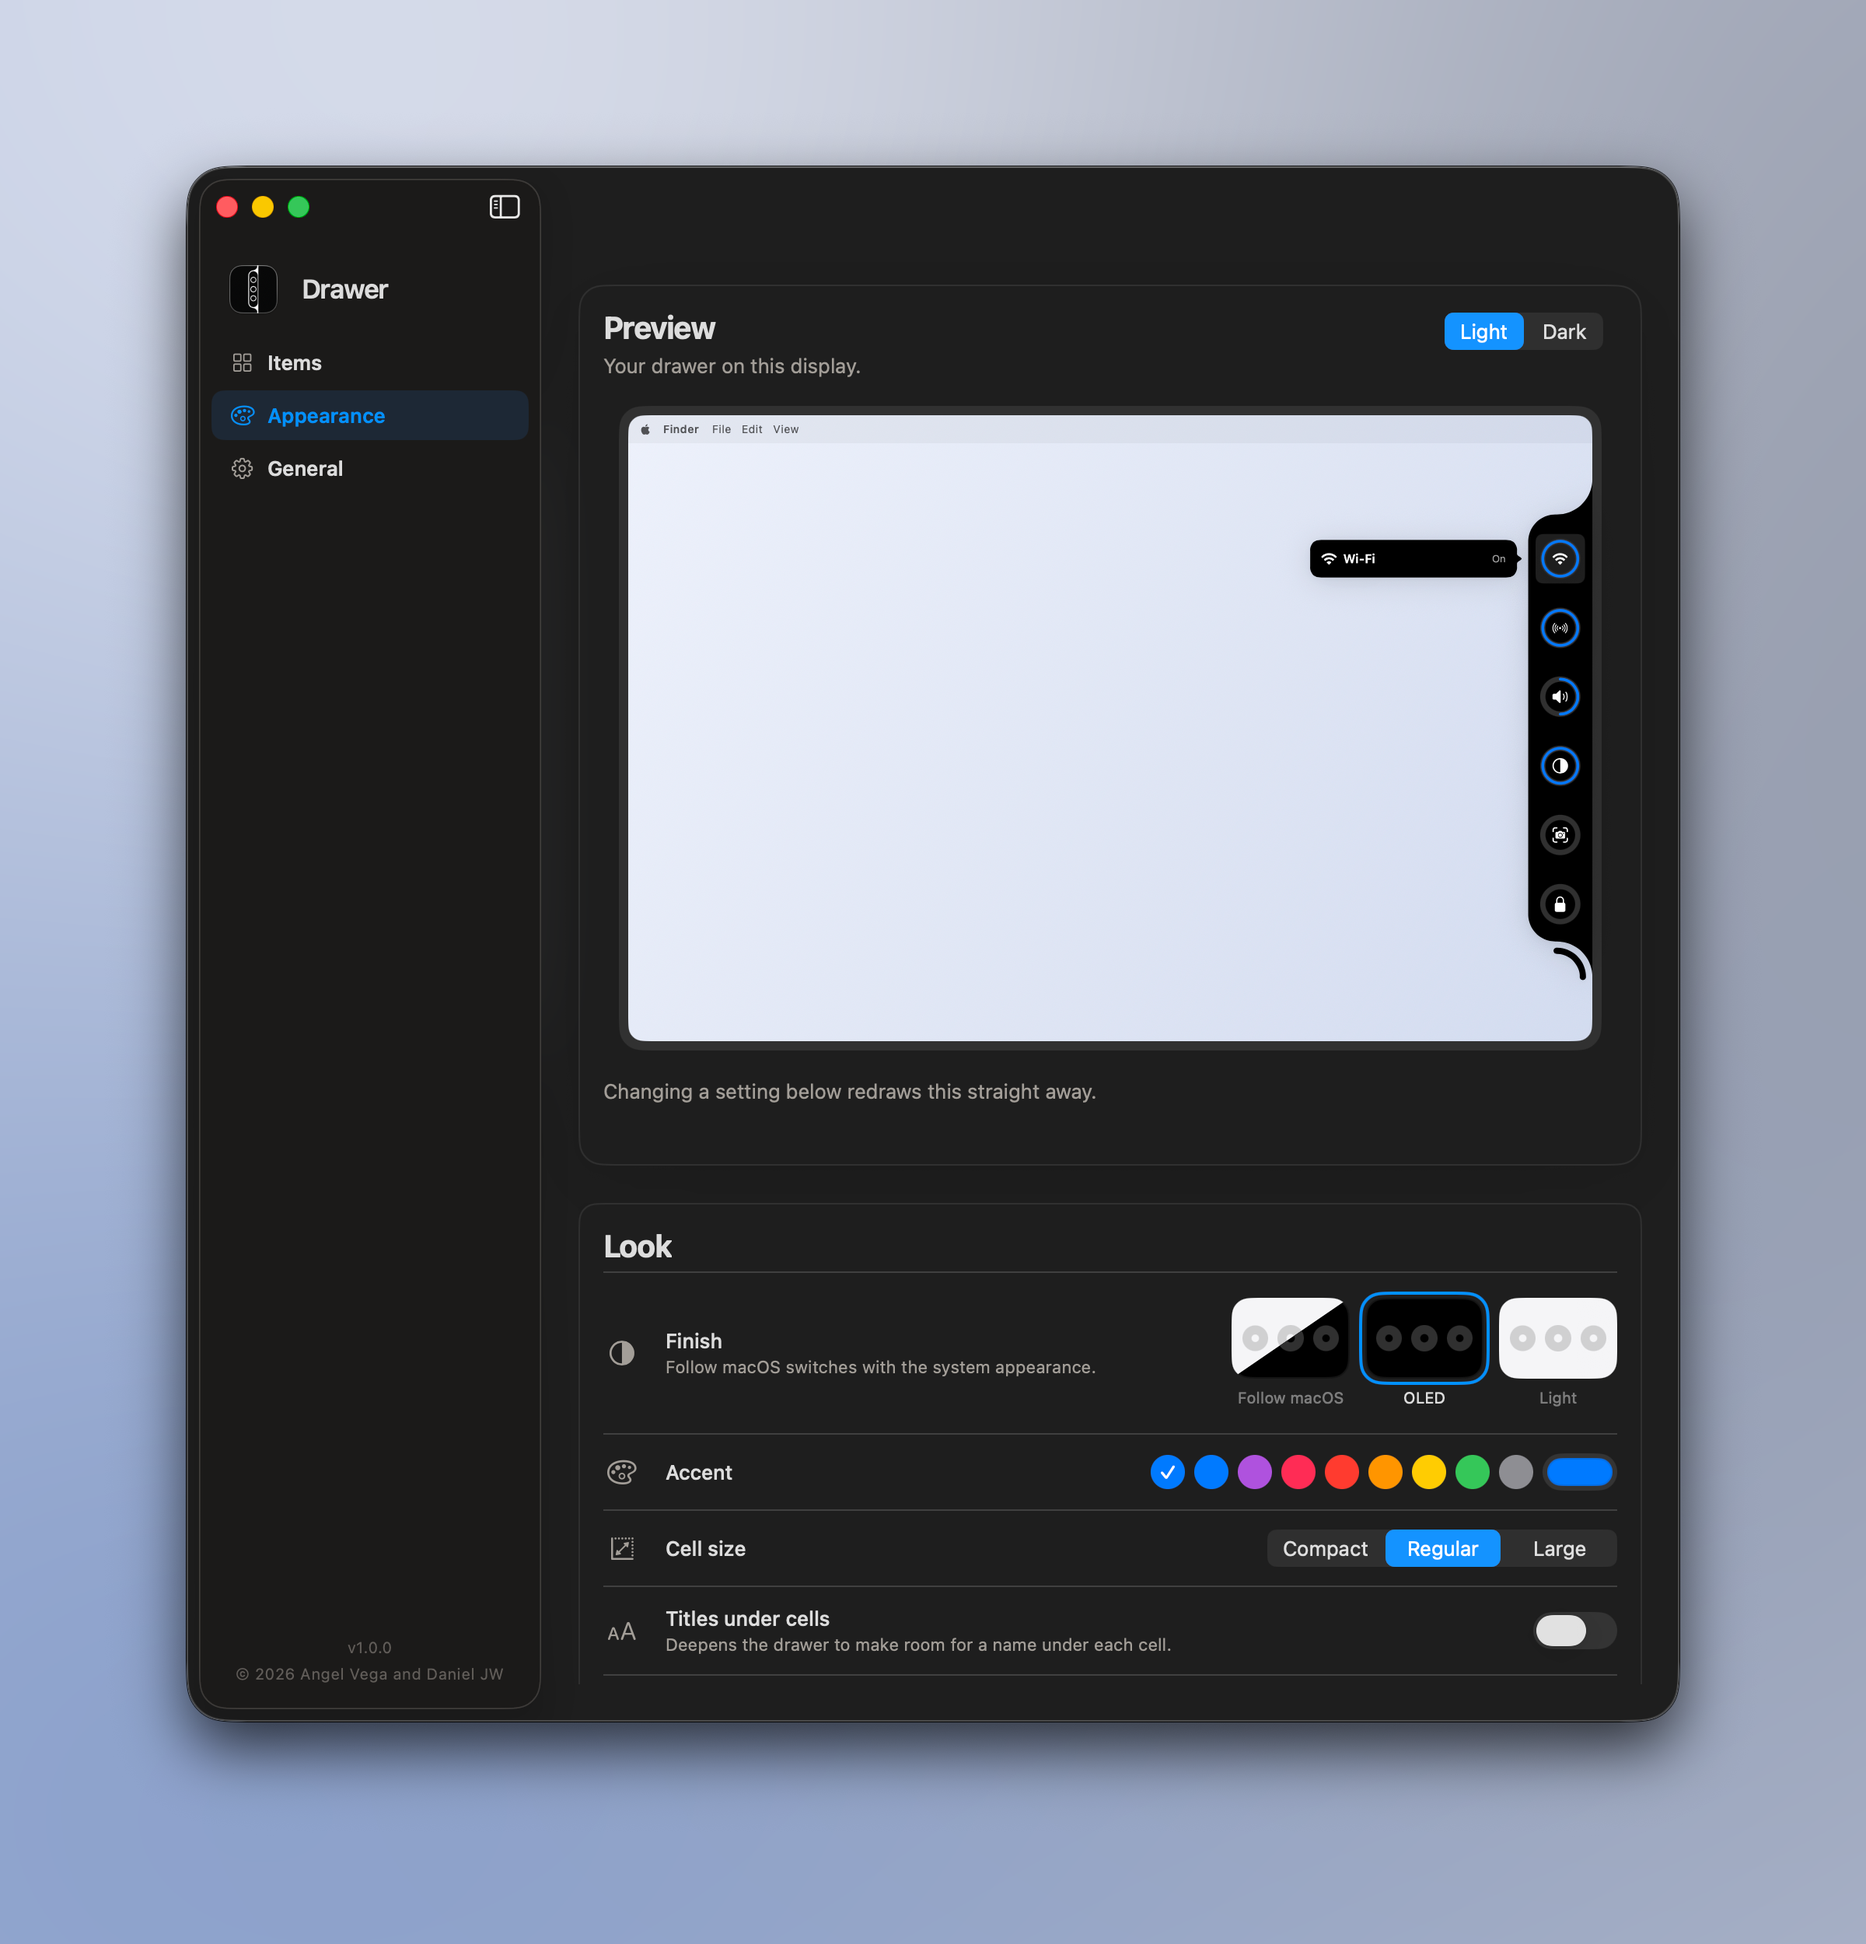
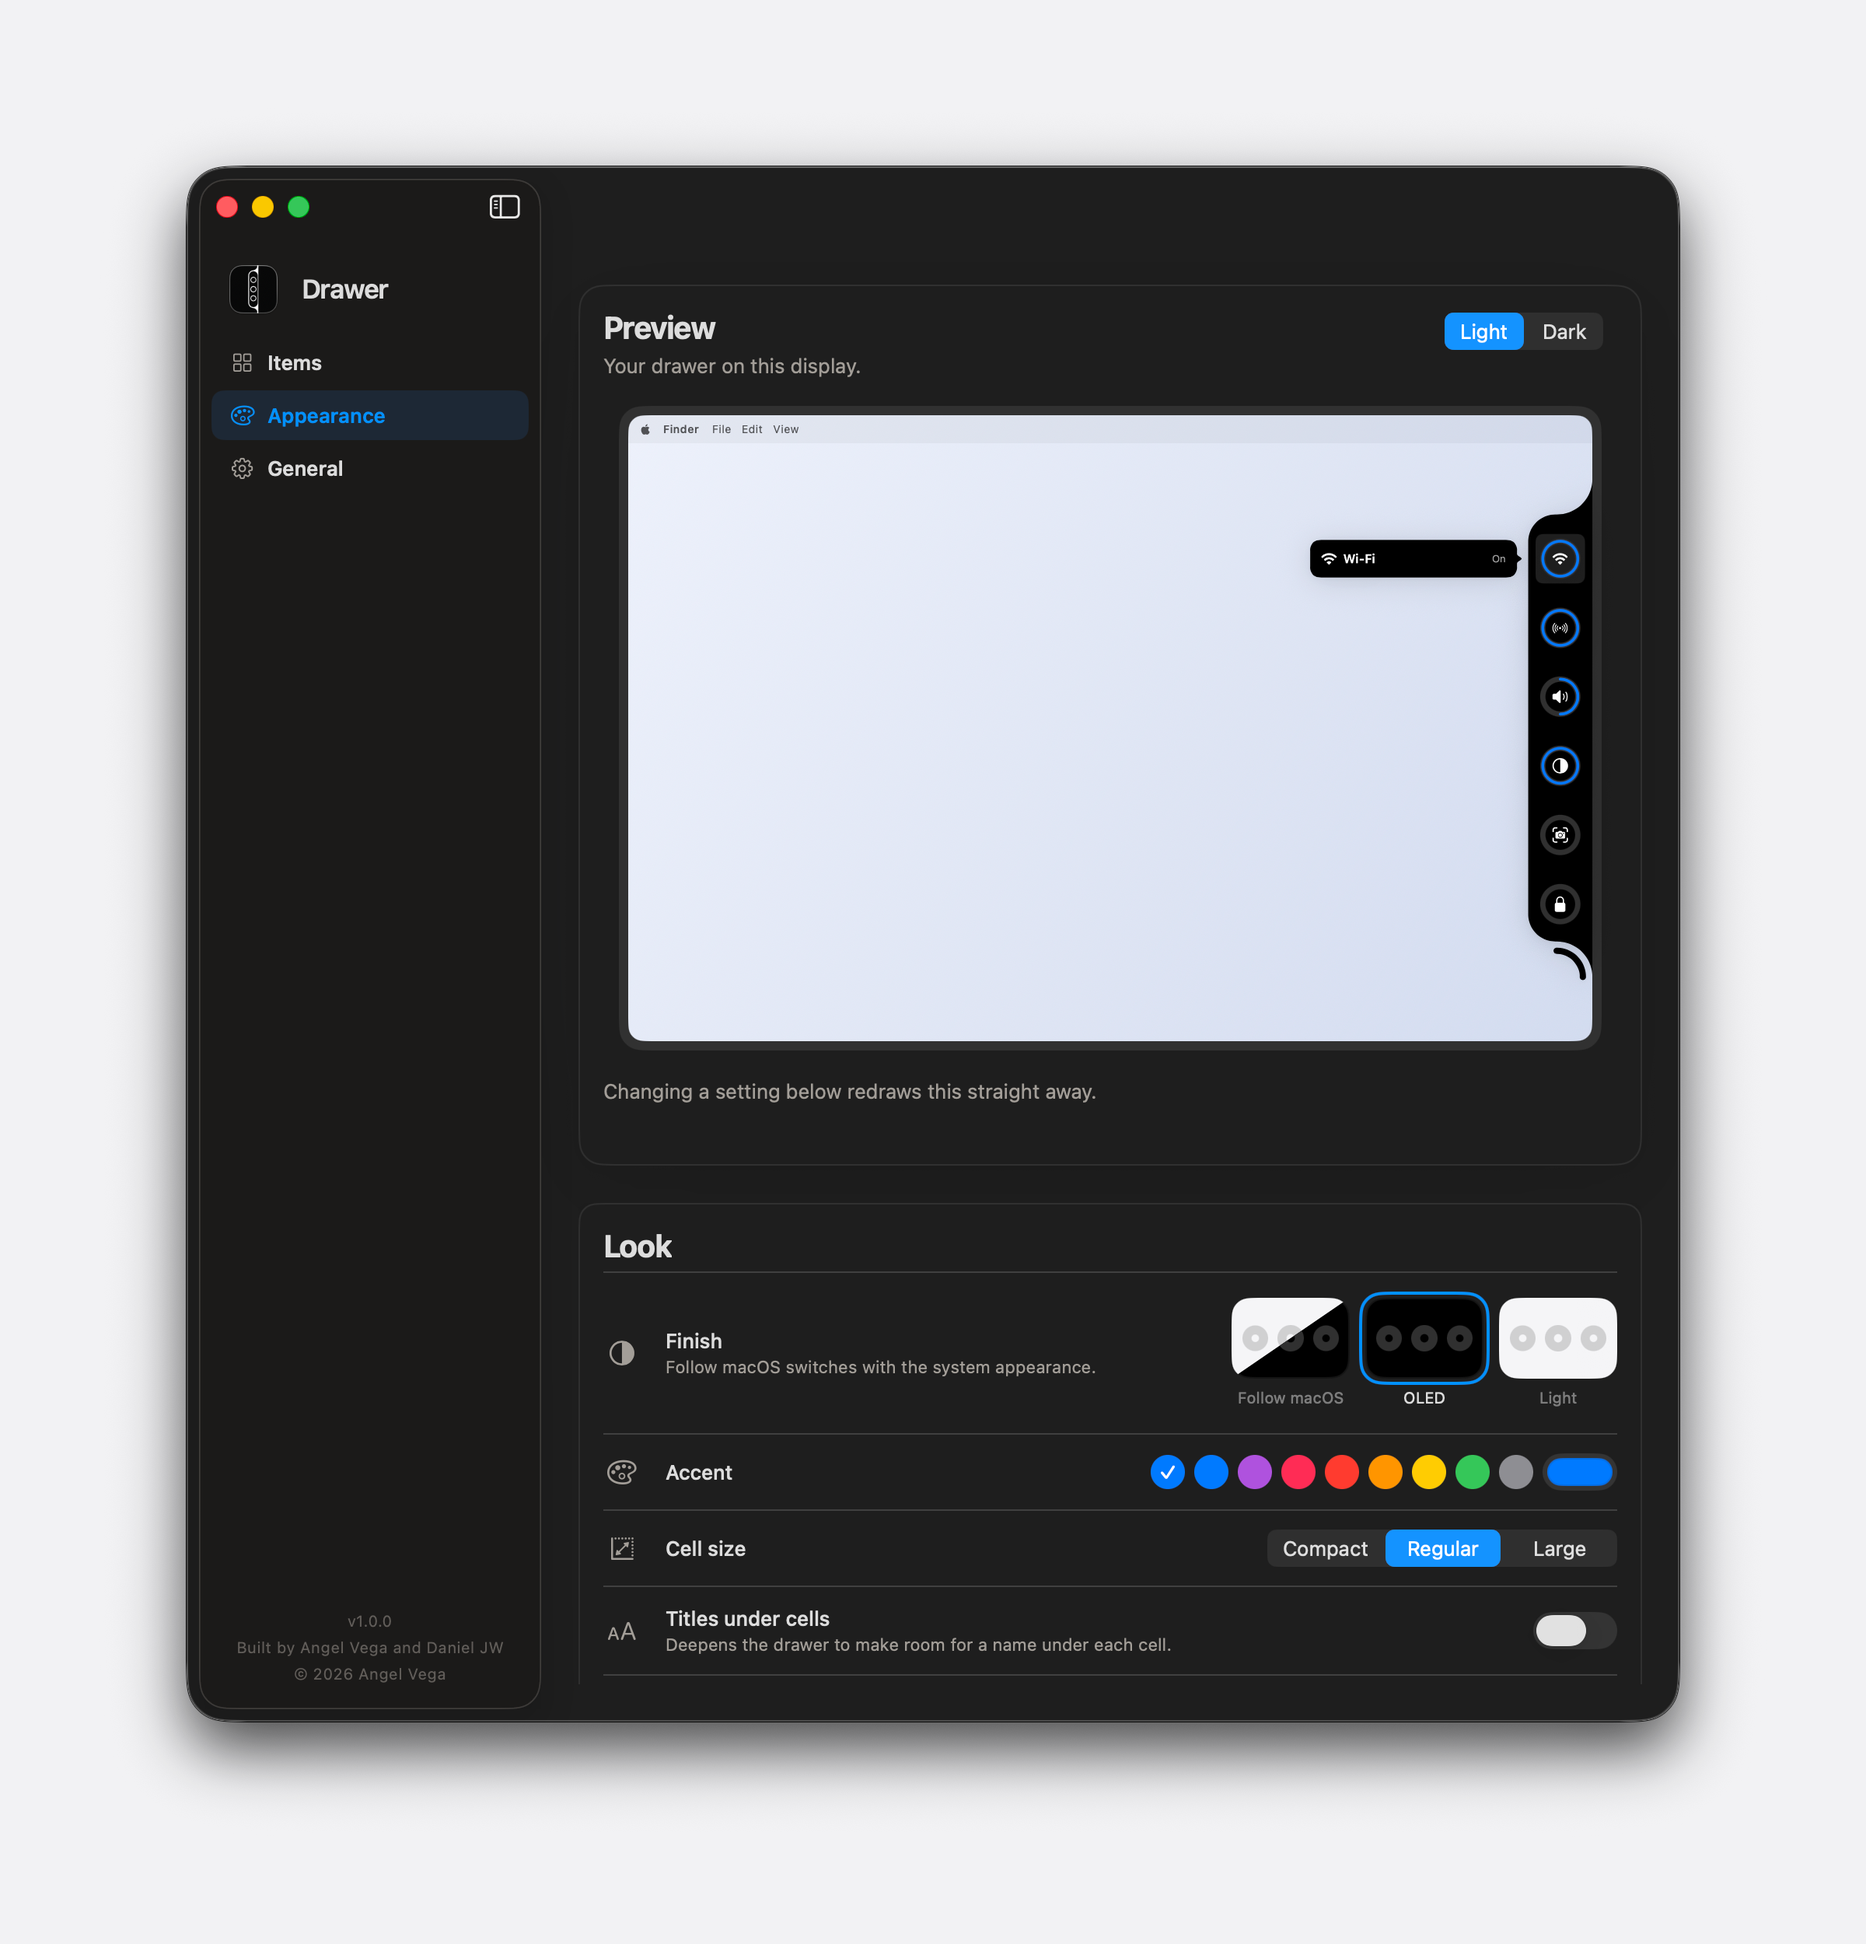
Flat backdrops, and a credit that reads as a credit
Two gradients in one picture is one too many: the ground behind the
windows and the wallpaper inside the display were both washes and neither
won. One flat paper behind everything, one flat indigo on the screen. The
bezel, the shadow, the alpha box placement and the 144 DPI tag are
unchanged.

The sidebar footer put both names inside the copyright line, which reads
as small print. Built by Angel Vega and Daniel JW now has its own line
above it, from the same constant the About card uses.

The capture settle went from six seconds to eight. At six, the third or
fourth launch in a run sometimes had no titled window yet and the shot
came back empty or the wrong size, twice in a row.

diff --git a/Tools/Screenshots/ArticleImages.swift b/Tools/Screenshots/ArticleImages.swift
@@ -35,31 +35,18 @@ func bitmap(_ width: Int, _ height: Int) -> NSBitmapImageRep {
     return rep
 }
 
-/// Slate and indigo. Base `#C6CEE2`, an indigo peak low on the left, a
-/// graphite peak high on the right, and a pale lift where the eye lands
-/// first. Deeper and cooler than a white page, so a black product has
-/// something to sit against, and light enough that a white window still has
-/// an edge.
+/// Paper. One flat colour behind everything, because a picture with a wash
+/// behind the window and a second wash inside the screen has two gradients
+/// competing in it and neither wins. The settings windows are dark, so they
+/// cut out against this without needing a border drawn around them.
 func ground(_ width: Int, _ height: Int) -> NSBitmapImageRep {
     let result = bitmap(width, height)
     guard let data = result.bitmapData else { fatalError("no bitmap data") }
+    let paper: [UInt8] = [242, 242, 244, 255]
     for y in 0..<height {
         for x in 0..<width {
-            let u = Double(x) / Double(width)
-            let v = Double(y) / Double(height)
-            let indigo = exp(-pow((u - 0.08) / 0.72, 2) - pow((v - 0.92) / 0.62, 2))
-            let graphite = exp(-pow((u - 1.02) / 0.62, 2) - pow((v - 0.30) / 0.85, 2))
-            let light = exp(-pow((u - 0.34) / 0.48, 2) - pow((v - 0.14) / 0.46, 2))
-            let channels = [
-                198.0 - 55 * indigo - 44 * graphite + 32 * light,
-                206.0 - 42 * indigo - 46 * graphite + 28 * light,
-                226.0 - 20 * indigo - 50 * graphite + 20 * light,
-            ]
             let offset = y * result.bytesPerRow + x * 4
-            for channel in 0..<3 {
-                data[offset + channel] = UInt8(max(0, min(255, channels[channel].rounded())))
-            }
-            data[offset + 3] = 255
+            for channel in 0..<4 { data[offset + channel] = paper[channel] }
         }
     }
     return result
@@ -165,29 +152,14 @@ func screen(_ outer: CGRect, canvas: CGSize, radius: CGFloat = 46) -> CGRect {
     NSBezierPath(roundedRect: flip(outer), xRadius: radius, yRadius: radius).fill()
     NSGraphicsContext.restoreGraphicsState()
 
-    // A wallpaper with some colour in it rather than a pale slab. Two reasons,
-    // both measured on a first attempt: a near white screen makes the picture
-    // read as a blank page with a bar stuck to it, and a near black one makes
-    // the drawer disappear, since the product and the screen behind it are
-    // then the same colour.
+    // One flat colour on the screen. Not white and not black, both measured:
+    // a near white screen makes the picture read as a blank page with a bar
+    // stuck to it, and a near black one makes the drawer disappear, since the
+    // product and the screen behind it are then the same colour.
     NSGraphicsContext.saveGraphicsState()
     NSBezierPath(roundedRect: flip(inner), xRadius: radius - 16, yRadius: radius - 16).setClip()
-    let wallpaper = NSGradient(colors: [
-        NSColor(srgbRed: 0.42, green: 0.46, blue: 0.78, alpha: 1),
-        NSColor(srgbRed: 0.20, green: 0.23, blue: 0.46, alpha: 1),
-    ])
-    wallpaper?.draw(in: flip(inner), angle: -55)
-    let bloom = NSGradient(colors: [
-        NSColor(srgbRed: 0.72, green: 0.76, blue: 0.98, alpha: 0.55),
-        NSColor(srgbRed: 0.72, green: 0.76, blue: 0.98, alpha: 0.0),
-    ])
-    // Drawn over a square large enough to cover the whole screen: a smaller
-    // one ends inside the frame and leaves a visible seam where the gradient
-    // stops, which the first attempt had running down the wallpaper.
-    let bloomSize = max(inner.width, inner.height) * 2.4
-    bloom?.draw(in: flip(CGRect(x: inner.midX - bloomSize / 2, y: inner.midY - bloomSize / 2,
-                                width: bloomSize, height: bloomSize)),
-                relativeCenterPosition: NSPoint(x: -0.45, y: 0.5))
+    NSColor(srgbRed: 0.294, green: 0.329, blue: 0.651, alpha: 1).setFill()
+    flip(inner).fill()
     NSGraphicsContext.restoreGraphicsState()
 
     // The hairline where the glass meets the bezel, which is the only thing

diff --git a/Sources/Settings/SettingsSidebar.swift b/Sources/Settings/SettingsSidebar.swift
@@ -65,9 +65,13 @@ struct SettingsSidebar: View {
     private var footer: some View {
         VStack(spacing: SettingsStyle.s4) {
             Text("v" + ((Bundle.main.infoDictionary?["CFBundleShortVersionString"] as? String) ?? "0.0.0"))
-            // Both names, read from the same constant the About card uses, so
-            // the sidebar and the card cannot end up crediting different people.
-            Text("\u{00A9} 2026 " + AboutView.developers)
+            // Credit on its own line, then the legal line. Both names inside a
+            // copyright notice read as small print rather than as a credit,
+            // and the names are read from the same constant the About card
+            // uses so the two cannot end up naming different people.
+            Text("Built by " + AboutView.developers)
+                .multilineTextAlignment(.center)
+            Text("\u{00A9} 2026 Angel Vega")
                 .multilineTextAlignment(.center)
         }
         .settingsFont(SettingsStyle.micro)
